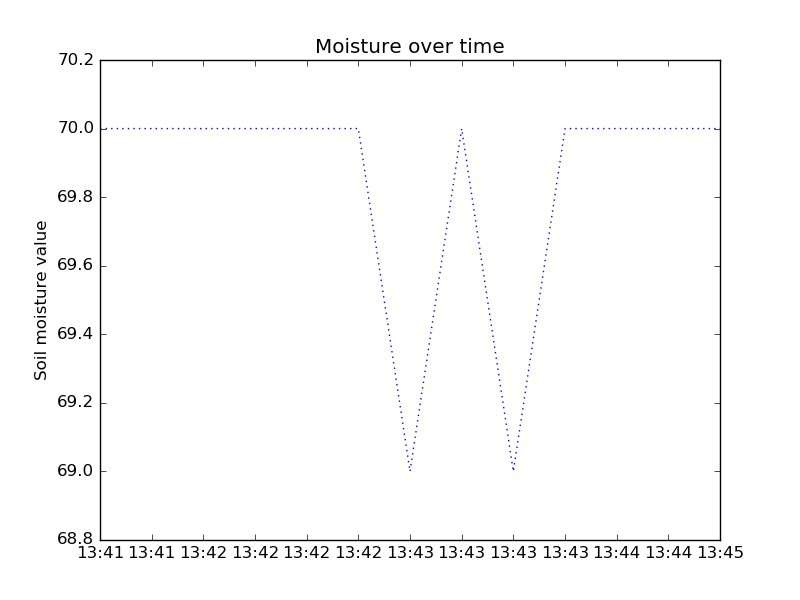
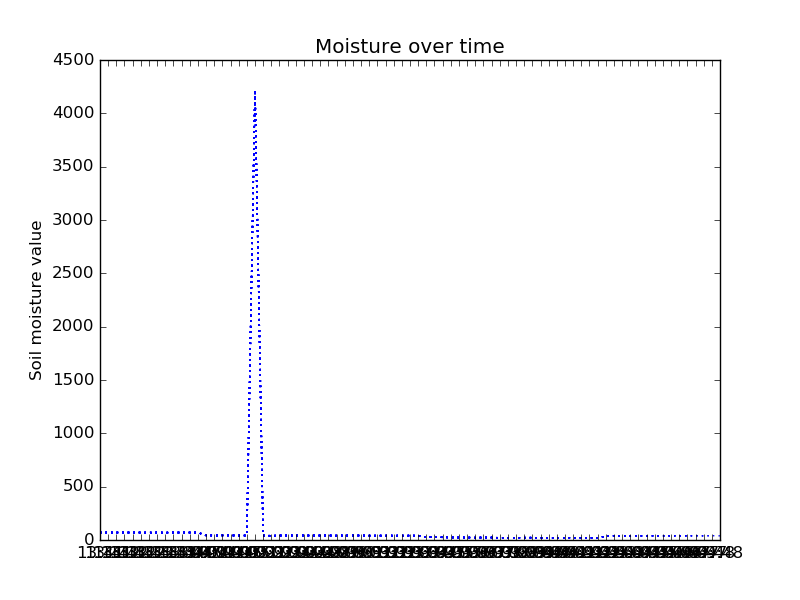
added more info to 'plot'

diff --git a/viktor/Plants.py b/viktor/Plants.py
@@ -13,52 +13,60 @@ HUMIDITY = "2"
 WATER_LEVEL = "3"
 ACTIVATE_PUMP = "4"
 MOISTURE_2 = "5"
+
+WORKING_FILE = "plot"
+POLL_INTERVAL = 5
 READING_MARGIN_OF_ERROR = 15
-HIGHEST_MOISTURE_LEVEL = 60
+HIGHEST_MOISTURE_LEVEL = 120
 
 
 def test():
     while True:
         address = '20:14:10:10:21:04'
-        s = bt.connect(address)
+        try:
+            s = bt.connect(address)
+        except:
+            print "Bluetooth unable to connect"
+
         if(s != 0):
             data1 = []
+            data2 = []
             for i in range(5):
                 data1.append(getMoisture1(s))
-
+                data2.append(getMoisture2(s))
             data1 = removeOutliers(data1)
-            value = calculateAvg(data1)
+            data2 = removeOutliers(data2)
+
+            moist1 = str(calculateAvg(data1)) + " "
+            moist2 = str(calculateAvg(data2)) + " "
+            humid = str(getHumidity(s)) + " "
+            temp = str(getTemperature(s)) + " "
+            tiden = str(strftime("%H:%M", gmtime())) + " "
+
+            value = tiden + moist1 + moist2 + humid + temp
+
+            print("moist1: " + moist1)
+            print("moist2: " + moist2)
+            print("temp: " + temp)
+            print("humid: " + humid)
             print(value)
-            writeToFileAndPlot(value,'plot')
 
-            if(value > HIGHEST_MOISTURE_LEVEL):
+            writeToFileAndPlot(value,WORKING_FILE)
+
+            if (moist1 > HIGHEST_MOISTURE_LEVEL) or (moist2 > HIGHEST_MOISTURE_LEVEL):
                 activatePump(s)
-                print("treshold reached")
+                print("Threshold reached")
             bt.closeSocket(s)
-        time.sleep(20)
-  #print "Moisture 1: " ,value
-#  value2 = getTemperature(s)
- # print "Temperature: ", value2
-#  value3 = getHumidity(s)
- # print "Humidity: ", value3
-#  value4 = getWaterLevel(s)
- # print "WaterLevel: ",value4
-#  activatePump(s)
-#  bt.closeSocket(s)
-  
+        time.sleep(POLL_INTERVAL)
 
 
-def writeToFileAndPlot(data, fileName):
+def writeToFileAndPlot(sendStr, fileName):
   f = open(fileName,'a')
-  sendStr = ""
-  sendStr += str(strftime("%H:%M", gmtime()))
-  sendStr += " "
-  sendStr += str(data)
   sendStr += "\n"
-
   f.writelines(sendStr) # python will convert \n to os.linesep
   f.close() # you can omit in most cases as the destructor will call it
   pl.plot(0,fileName)
+
 
 def removeOutliers(values):
   maxValue = max(values)

diff --git a/viktor/Bluetooth.py b/viktor/Bluetooth.py
@@ -1,49 +1,42 @@
 import socket
 
-
 def connect(Address):
     print "Connecting"
     Mac = Address
     port = 1
     s = socket.socket(socket.AF_BLUETOOTH, socket.SOCK_STREAM, socket.BTPROTO_RFCOMM)
-  
     try:
         s.connect((Mac,port))
         print "Connected to", Mac
-		
     except:
         print "Caught exception socket.error"
         s = 0
-
     return s
-  
+
 
 def sendMessage(socket, message):
-  try:
-    socket.send(message)
-  	
-  except:
-  	print "Caught exception socket.error"
-    
-  
+    try:
+        socket.send(message)
+    except:
+        print "Caught exception socket.error"
+
+
 def recieveMessage(socket):
-  	
-  try:
-  	f = socket.makefile()
-	data = str(f.readline())
-	f.close()
+    try:
+        f = socket.makefile()
+        data = str(f.readline())
+        f.close()
+    except:
+        data = "0"
+        print "Caught exception socket.error"
 
-  except:
-    data = "0"
-    print "Caught exception socket.error"
+    return data
 
-  return data
 
 def closeSocket(socket):
-  try:
-  	socket.close()
-    #print "Socket succesfully closed"
-    
-  except:
-	print "Caught exception socket.error"
+    try:
+        socket.close()
+        #print "Socket succesfully closed"
+    except:
+        print "Caught exception socket.error"
 	

diff --git a/bluetooth-test.py b/bluetooth-test.py
@@ -5,28 +5,40 @@ import time
 MAC = '20:14:10:10:21:04'
 port = 1
 s = socket.socket(socket.AF_BLUETOOTH, socket.SOCK_STREAM, socket.BTPROTO_RFCOMM)
-s.connect((MAC,port))
+connected = 0
+
+while connected==0:
+	try:
+		s.connect((MAC,port))
+		connected = 1
+	except:
+		print "cant connect"
+		time.sleep(1)
 
 while True:
-	#s = socket.socket(socket.AF_BLUETOOTH, socket.SOCK_STREAM, socket.BTPROTO_RFCOMM)
-	#s.connect((MAC,port))
 	try:
-		#s.connect((MAC,port))
-		var = raw_input("Enter a number ")
+		print("0 - read moisture (sensor1)")
+		print("1 - read temerature")
+		print("2 - read humidity")
+		print("3 - read water sensor")
+		print("4 - activate pump")
+		print("5 - read moisture (sensor2)")
+		print("e - EXIT")
+
+		var = raw_input("Action(0-5): ")
+
 		print "You entered ", var
 		if(var == "E") or (var == "e"):
 			print "Exiting... "
 			s.close
 			break
-
 		s.send(var)
 		f = s.makefile()
 		data = str(f.readline())
-		
-		print data
 		f.close()
-		#s.close
-	except socket.error, exc:
-		print "Error"
+		print data
+	except:
+		print("Error")
+		s.close()
 	time.sleep (2)
 	

diff --git a/viktor/Plot.py b/viktor/Plot.py
@@ -1,13 +1,13 @@
 
 import numpy as np
 import matplotlib.pyplot as plt
-def plot(pollCount, file1):
-    plt.ioff()
-    fileName = file1
-    #data = np.loadtxt('pv')
 
-    plt.title('Moisture over time')
-    plt.ylabel('Soil moisture value')
+
+def plot(pollCount, file1, titel, yLabel, saveName):
+#    plt.ioff()
+    fileName = file1
+    plt.title(titel)
+    plt.ylabel(yLabel)
     
     #plt.xlabel('Time in ['+str(pollCount)+' min]')
 
@@ -32,14 +32,11 @@ def plot(pollCount, file1):
 
     x = []
     for i in range(len(xDates)):
-	    x.append(i)
+        x.append(i)
 
     plt.plot(x, y,color='blue',linestyle='dotted')
     plt.xticks(x, xDates)
-    plt.savefig('../static/graph.png')
-    
- 
-#plt.show()
+    plt.savefig('../static/' + saveName + '.png')
+    plt.show()
 
-
-#plot(0,0)
+plot(0,0, 'Moisture over time', 'Soil moisture value', "grafen")
